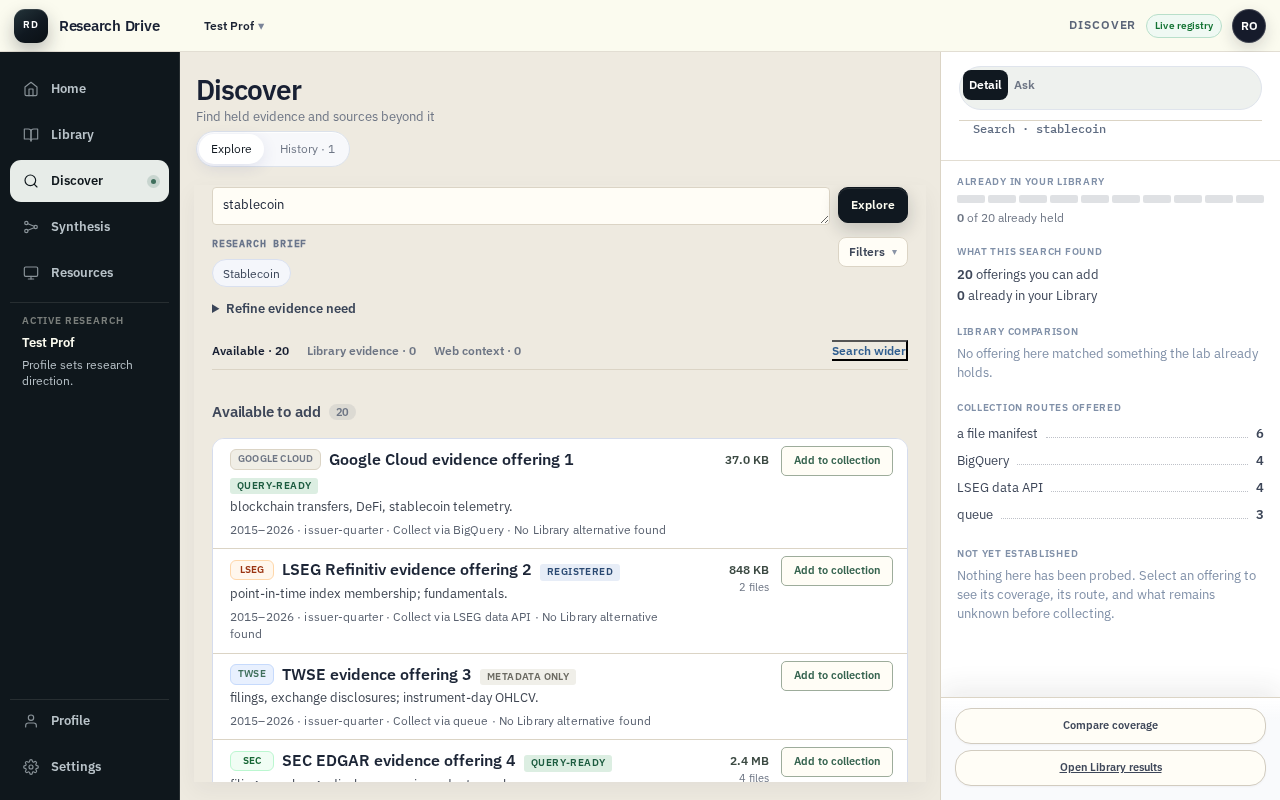
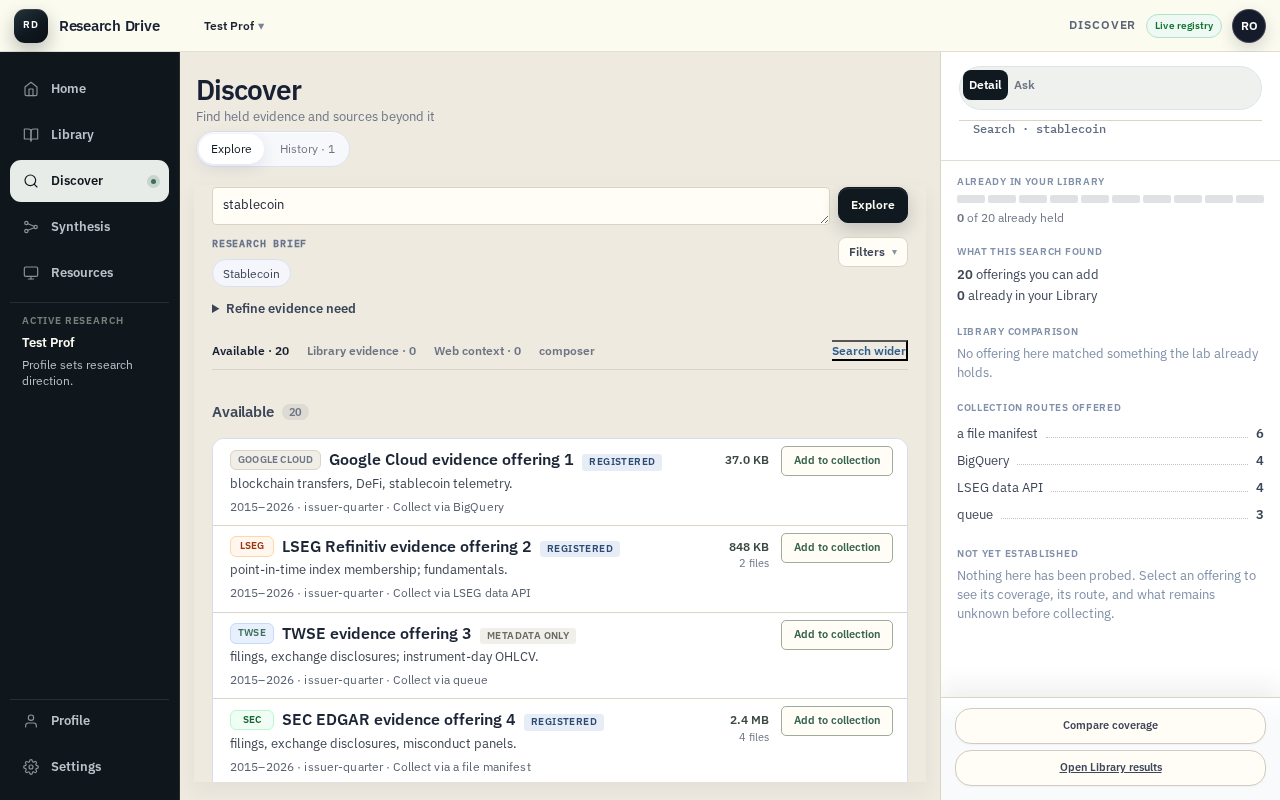
feat(discover): readiness reads proof; held rows carry a possession mark
The badge read analysis_readiness, so "instant" — an unverified claim —
rendered as "Query-ready". readiness_truth.py only writes query_ready after
a bounded query smoke succeeds; the badge now follows the same rule.

  query_verified        -> "Verified 2026-08-04"  (carries the smoke date)
  instant, unproven     -> "Registered"
  metadata + entitled   -> "Route ready"          (was a dead end)
  metadata, no entitle  -> "Metadata only"

Verified visually at 1920 against a fixture cycling instant/registered/
metadata_only: the two "instant" rows stopped claiming query-ready.

Held rows now show the possession mark, not only the selected row, so
ownership is scannable without reading the metadata line.

gateway._cov now sends query_ready, query_verified, query_verified_at and
entitlement_status — the proof existed in the registry and was never put
on the wire. Same field-whitelist class as one_line and tags before it.

236 + 6 tests pass, lint clean, 7 of 8 visual budgets hold. The eighth
(rail sticky-footer) fails identically on stashed code — the fixture rail
no longer overflows at 1440, so the vacuity guard refuses a hollow pass.

diff --git a/drive/src/v2/BrowsePage.jsx b/drive/src/v2/BrowsePage.jsx
@@ -15,6 +15,7 @@ import {
   taxonomyMatchesFilter,
   taxonomyStageCounts,
 } from "@/v2/browseMeta";
+import { isHeldRow, readinessMark } from "@/v2/readinessMark";
 import { discoverCandidateUrl, webHitsToRows } from "@/v2/discoverActions";
 import { candidateKey, isCandidateQueued, withCandidateKey } from "@/v2/candidateKey";
 import { buildDiscoverLifecycle, projectDiscoverCandidateLifecycle } from "@/v2/discoverLifecycle";
@@ -241,18 +242,7 @@ function DiscoverCandidateRow({
     && Boolean(materialSufficiencyLine);
   // States that mean the lab already holds something relevant, so collecting
   // may be unnecessary. These get a highlighted line; the rest stay inline.
-  const readinessBadge = (() => {
-    if (String(row?.shelf_hint || "") === "find_datasets") {
-      return { label: "Where to find it", tone: "lead" };
-    }
-    const r = String(row?.analysis_readiness || row?.field_coverage || "").toLowerCase();
-    if (!r) return null;
-    if (/metadata_search|metadata search/.test(r)) return { label: "Metadata only", tone: "low" };
-    if (/query[-_ ]?ready|instant/.test(r)) return { label: "Query-ready", tone: "ready" };
-    if (/register/.test(r)) return { label: "Registered", tone: "mid" };
-    if (/metadata/.test(r)) return { label: "Metadata only", tone: "low" };
-    return null;
-  })();
+  const readinessBadge = readinessMark(row);
   const recommendedUse = String(row?.recommended_use || "").trim().slice(0, 150);
 
   const hasExplicitDescription = Boolean(
@@ -282,8 +272,13 @@ function DiscoverCandidateRow({
           <span className="rd-v2-discover-candidate-heading">
             <SourceRibbon source={ribbonSource} />
             <strong className="rd-v2-discover-candidate-title">
-              {selected ? (
-                <span className="rd-v2-discover-selected-mark" aria-hidden="true">
+              {selected || isHeldRow(row, labIds) ? (
+                <span
+                  className={`rd-v2-discover-selected-mark${
+                    isHeldRow(row, labIds) ? " is-held" : ""
+                  }`}
+                  aria-hidden="true"
+                >
                   ▌
                 </span>
               ) : null}

diff --git a/drive/src/v2/readinessMark.js b/drive/src/v2/readinessMark.js
@@ -1,0 +1,50 @@
+/**
+ * Readiness read from proof, not from a claim string.
+ *
+ * `analysis_readiness: "instant"` is an unverified assertion — readiness_truth.py
+ * only writes query_ready after a bounded query smoke succeeds. The badge follows
+ * the same rule: verified when the desk proved it, never from the label alone.
+ */
+
+const PROVEN = "verified";
+
+function shortDate(value) {
+  const text = String(value || "").trim();
+  if (!text) return "";
+  const m = text.match(/^(\d{4}-\d{2}-\d{2})/);
+  return m ? m[1] : "";
+}
+
+export function readinessMark(row) {
+  if (String(row?.shelf_hint || "") === "find_datasets") {
+    return { label: "Where to find it", tone: "lead" };
+  }
+
+  if (row?.query_verified) {
+    const at = shortDate(row?.query_verified_at);
+    return { label: at ? `Verified ${at}` : "Verified", tone: "ready", state: PROVEN };
+  }
+
+  const readiness = String(row?.analysis_readiness || row?.field_coverage || "").toLowerCase();
+
+  if (/metadata[-_ ]?search|metadata only/.test(readiness)) {
+    const entitled = String(row?.entitlement_status || "").toLowerCase();
+    if (entitled && entitled !== "collected") {
+      return { label: "Route ready", tone: "route", state: "route" };
+    }
+    return { label: "Metadata only", tone: "low", state: "metadata" };
+  }
+
+  if (row?.query_ready) return { label: "Query-ready", tone: "ready", state: "claimed" };
+  if (/register|instant/.test(readiness)) return { label: "Registered", tone: "mid", state: "registered" };
+  if (/metadata/.test(readiness)) return { label: "Metadata only", tone: "low", state: "metadata" };
+  return null;
+}
+
+export function isHeldRow(row, labIds) {
+  if (row?.local_ready || row?.in_lab === true) return true;
+  const placement = String(row?.placement || "").toLowerCase();
+  if (placement === "held") return true;
+  const id = String(row?.dataset_id || row?.id || "").trim();
+  return Boolean(id && labIds?.has?.(id));
+}

diff --git a/drive/src/v2/readinessMark.test.js b/drive/src/v2/readinessMark.test.js
@@ -1,0 +1,45 @@
+import assert from "node:assert/strict";
+import test from "node:test";
+
+import { isHeldRow, readinessMark } from "./readinessMark.js";
+
+test("smoke proof wins and carries its date", () => {
+  const mark = readinessMark({
+    analysis_readiness: "instant",
+    query_verified: true,
+    query_verified_at: "2026-08-04T14:34:20+00:00",
+  });
+  assert.equal(mark.label, "Verified 2026-08-04");
+  assert.equal(mark.state, "verified");
+});
+
+test("unproven instant is registered, never query-ready", () => {
+  const mark = readinessMark({ analysis_readiness: "instant" });
+  assert.equal(mark.label, "Registered");
+  assert.notEqual(mark.label, "Query-ready");
+});
+
+test("entitled metadata rows read as a route, not a dead end", () => {
+  const mark = readinessMark({
+    analysis_readiness: "metadata_search",
+    entitlement_status: "entitled",
+  });
+  assert.equal(mark.label, "Route ready");
+  assert.equal(mark.tone, "route");
+});
+
+test("unentitled metadata rows stay metadata only", () => {
+  const mark = readinessMark({ analysis_readiness: "metadata_search" });
+  assert.equal(mark.label, "Metadata only");
+});
+
+test("find_datasets rows stay leads", () => {
+  assert.equal(readinessMark({ shelf_hint: "find_datasets" }).label, "Where to find it");
+});
+
+test("held detection accepts placement, local_ready and lab membership", () => {
+  assert.equal(isHeldRow({ placement: "held" }), true);
+  assert.equal(isHeldRow({ local_ready: true }), true);
+  assert.equal(isHeldRow({ dataset_id: "a" }, new Set(["a"])), true);
+  assert.equal(isHeldRow({ dataset_id: "b" }, new Set(["a"])), false);
+});

diff --git a/drive/src/v2/v2.css b/drive/src/v2/v2.css
@@ -10035,3 +10035,5 @@ button:disabled { opacity: 0.55; cursor: not-allowed; }
 }
 
 .rd-v2-discover-readiness.is-lead { background: #efe8dc; color: #6f5a33; }
+.rd-v2-discover-readiness.is-route { background: #e3ecf6; color: #23507f; }
+.rd-v2-discover-selected-mark.is-held { color: #2f6a52; }
